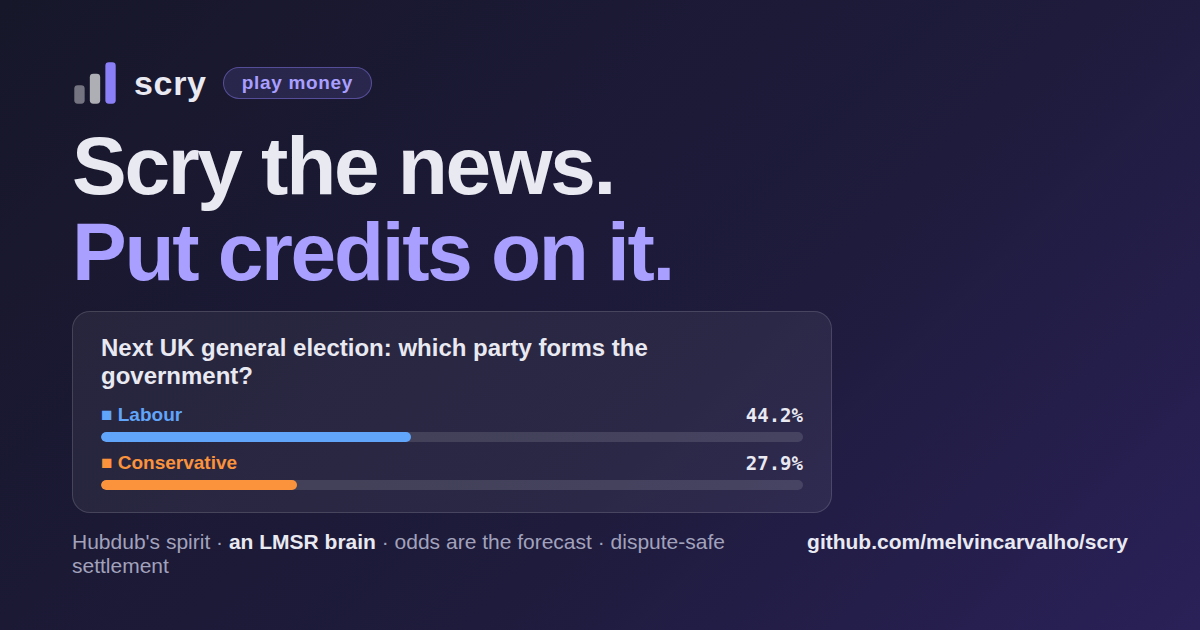
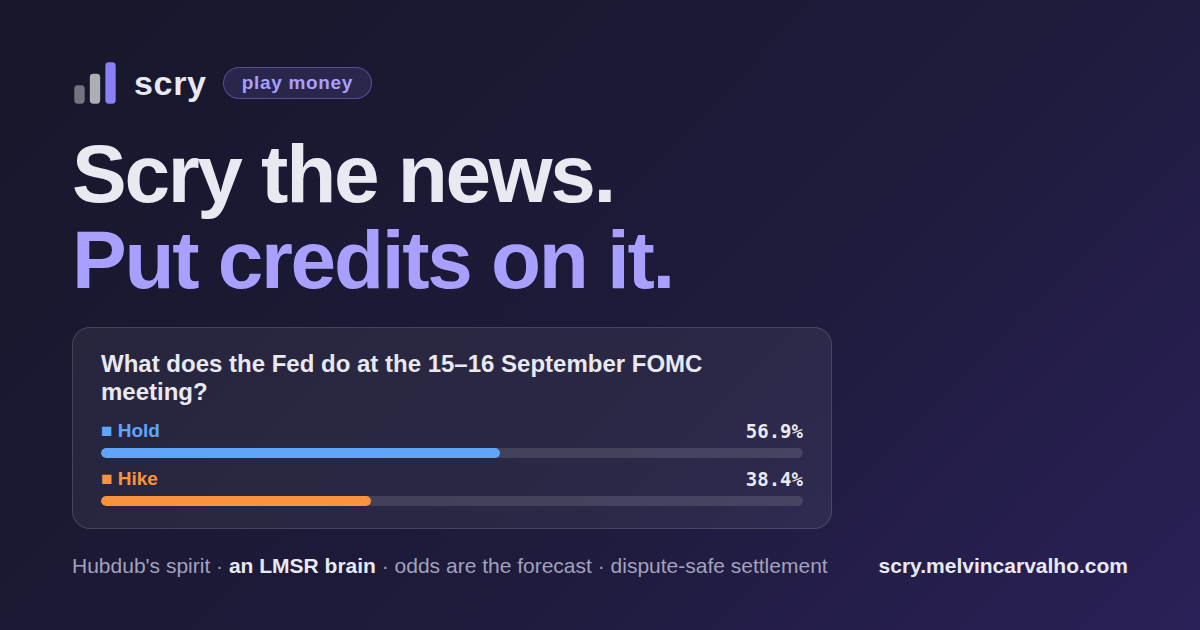
cards: landing mock and OG card show a LIVE market (the 15-16 Sep FOMC) instead of the stale UK-election example, and point at the live board rather than the repo

Changed region(s): [[0.0617, 0.5127, 0.6783, 0.8143], [0.0617, 0.2111, 0.555, 0.4825], [0.0617, 0.8444, 0.9558, 0.9349]]

diff --git a/index.html b/index.html
@@ -121,15 +121,15 @@ footer a{color:var(--soft)}
       Sign up on the live board and you start with 1,000.</div>
   </div>
   <div class="mock" aria-hidden="true">
-    <div class="q">Next UK general election: which party forms the government?</div>
-    <div class="meta"><span class="open">OPEN</span> · Politics · closes in 299d · 214 bets · 3,120 traded</div>
-    <div class="orow"><span style="color:var(--yes)">■ Labour</span><span class="pct">44.2%</span></div>
-    <div class="bar"><i style="width:44.2%;background:var(--yes)"></i></div>
-    <div class="orow"><span style="color:var(--no)">■ Conservative</span><span class="pct">27.9%</span></div>
-    <div class="bar"><i style="width:27.9%;background:var(--no);animation-delay:.12s"></i></div>
-    <div class="orow"><span style="color:var(--other)">■ Other / coalition</span><span class="pct">27.9%</span></div>
-    <div class="bar"><i style="width:27.9%;background:var(--other);animation-delay:.24s"></i></div>
-    <div class="foot"><span>LMSR · b=40</span><span>you: 120 shares Labour</span></div>
+    <div class="q">What does the Fed do at the 15–16 September FOMC meeting?</div>
+    <div class="meta"><span class="open">OPEN</span> · Economy · closes in 40d · 186 bets · 2,740 traded</div>
+    <div class="orow"><span style="color:var(--no)">■ Hike</span><span class="pct">38.4%</span></div>
+    <div class="bar"><i style="width:38.4%;background:var(--no)"></i></div>
+    <div class="orow"><span style="color:var(--yes)">■ Hold</span><span class="pct">56.9%</span></div>
+    <div class="bar"><i style="width:56.9%;background:var(--yes);animation-delay:.12s"></i></div>
+    <div class="orow"><span style="color:var(--other)">■ Cut</span><span class="pct">4.7%</span></div>
+    <div class="bar"><i style="width:4.7%;background:var(--other);animation-delay:.24s"></i></div>
+    <div class="foot"><span>LMSR · b=40</span><span>range 3.50–3.75%, 3 dissents in July</span></div>
   </div>
 </div>
 

diff --git a/assets/og-card.html b/assets/og-card.html
@@ -24,11 +24,11 @@ h1 .acc{color:#A99FFF}
 </div>
 <h1>Scry the news.<br><span class="acc">Put credits on it.</span></h1>
 <div class="mock">
-  <div class="q">Next UK general election: which party forms the government?</div>
-  <div class="row"><span style="color:#60A5FA">■ Labour</span><span class="pct">44.2%</span></div>
-  <div class="bar"><i style="width:44.2%;background:#60A5FA"></i></div>
-  <div class="row"><span style="color:#FB923C">■ Conservative</span><span class="pct">27.9%</span></div>
-  <div class="bar"><i style="width:27.9%;background:#FB923C"></i></div>
+  <div class="q">What does the Fed do at the 15–16 September FOMC meeting?</div>
+  <div class="row"><span style="color:#60A5FA">■ Hold</span><span class="pct">56.9%</span></div>
+  <div class="bar"><i style="width:56.9%;background:#60A5FA"></i></div>
+  <div class="row"><span style="color:#FB923C">■ Hike</span><span class="pct">38.4%</span></div>
+  <div class="bar"><i style="width:38.4%;background:#FB923C"></i></div>
 </div>
-<div class="foot"><span>Hubdub's spirit · <b>an LMSR brain</b> · odds are the forecast · dispute-safe settlement</span><span><b>github.com/melvincarvalho/scry</b></span></div>
+<div class="foot"><span>Hubdub's spirit · <b>an LMSR brain</b> · odds are the forecast · dispute-safe settlement</span><span><b>scry.melvincarvalho.com</b></span></div>
 </body></html>
